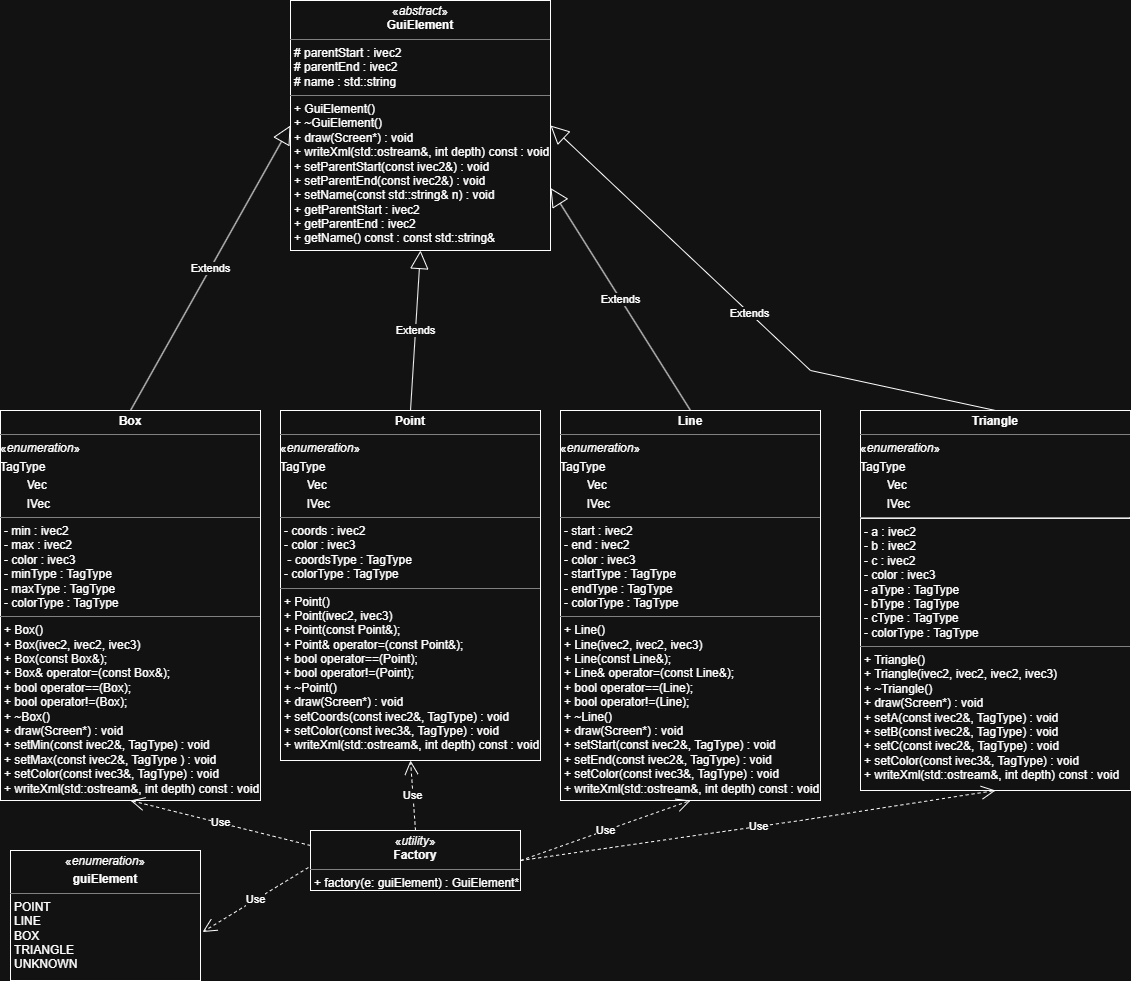
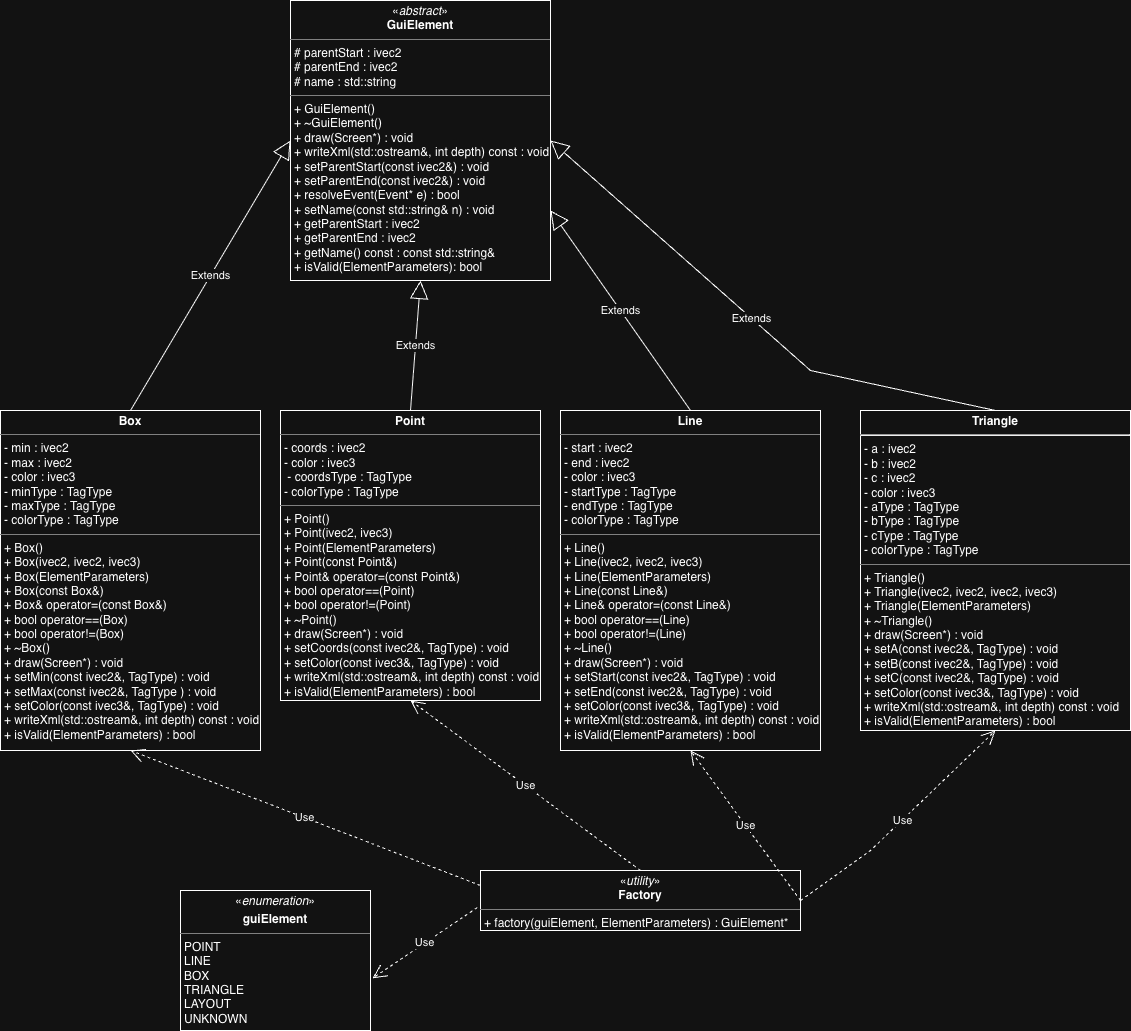
updated UML diagrams for factory refactor and added UML for SoundPlayer

diff --git a/README.md b/README.md
@@ -213,6 +213,11 @@ The callback function for audio playback. Takes in `userData` as a reference to 
 
 ---
 
+## UML Diagram
+![UML Diagram](images/SoundPlayer_UML.png)
+
+---
+
 # ElementParameters (struct)
 
 ## Description
@@ -330,6 +335,11 @@ The relative starting position of a `Layout` object
 ### `vec2 layoutEnd`
 The relative ending position of a `Layout` object
 - Initialized to `vec2(std::numeric_limits<float>::lowest(), std::numeric_limits<float>::lowest())`
+
+---
+
+## UML Diagram
+![UML Diagram](images/ElementParameters_UML.png)
 
 ---
 
